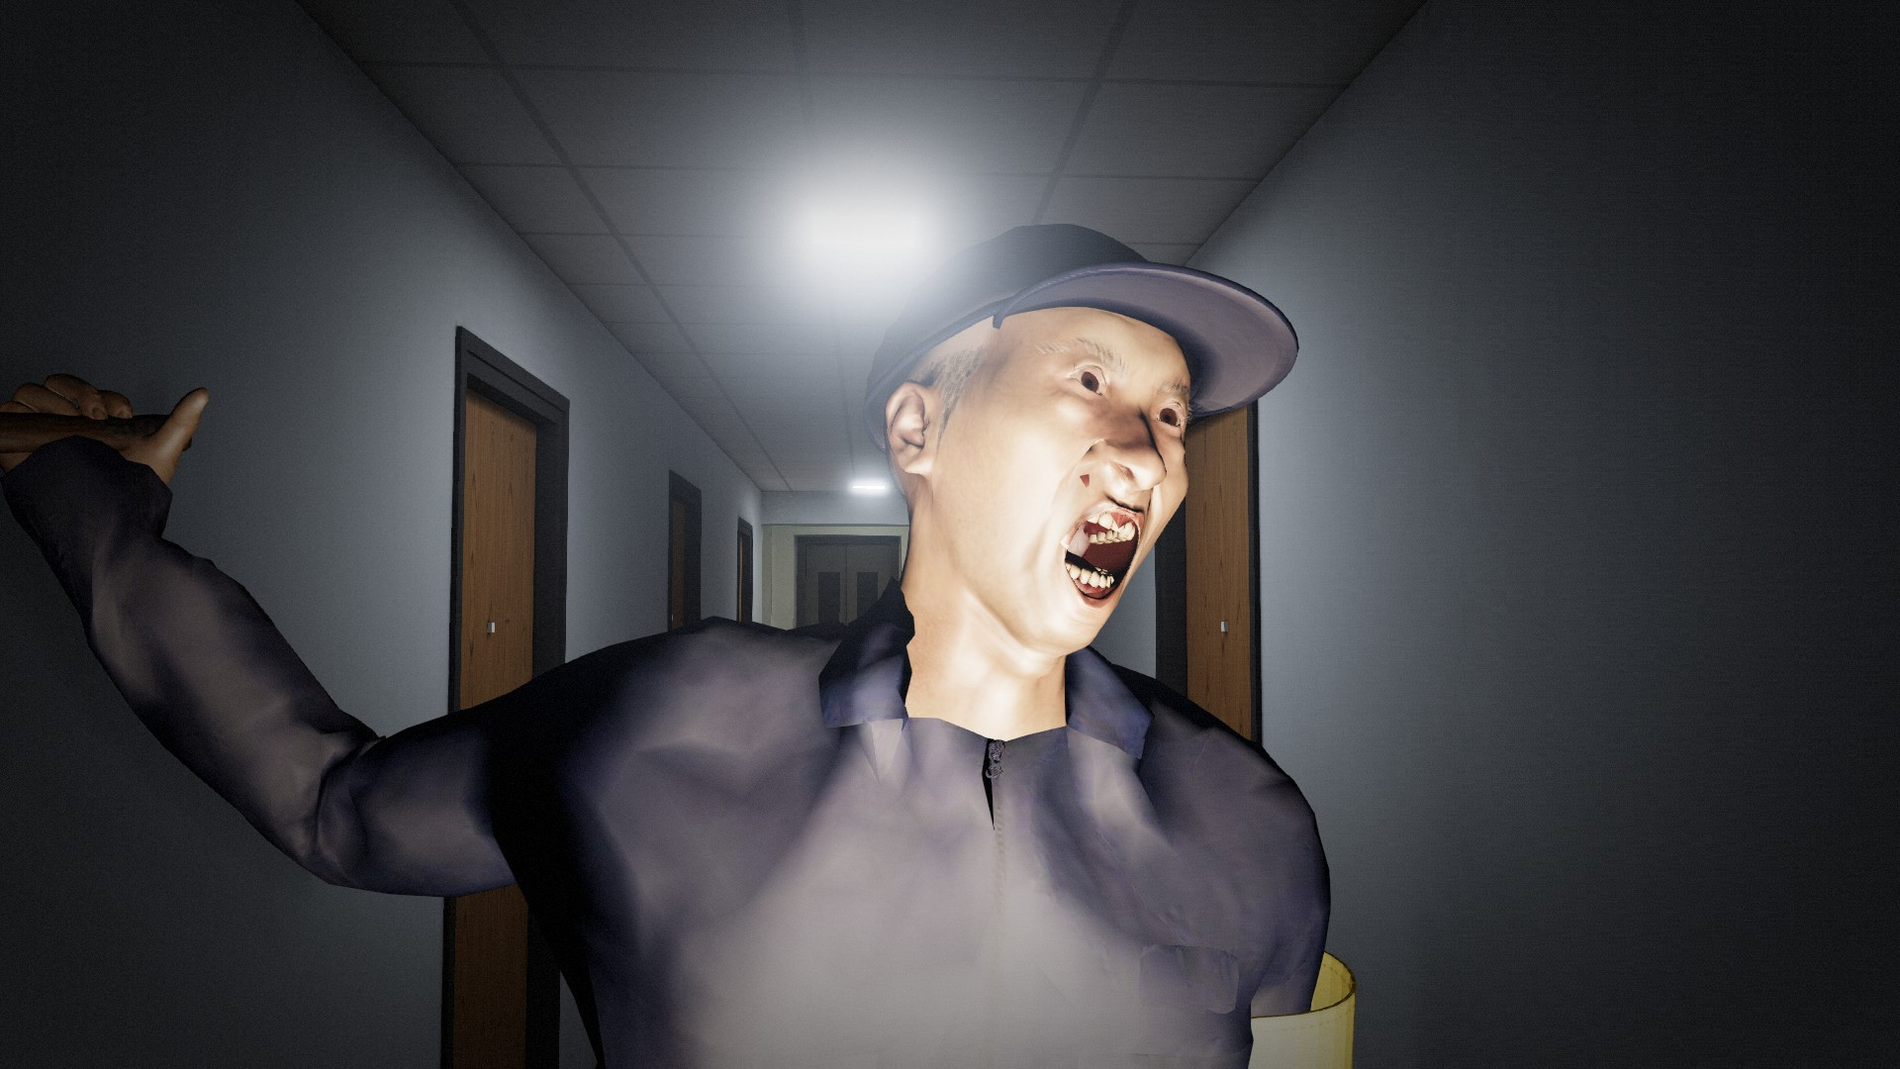
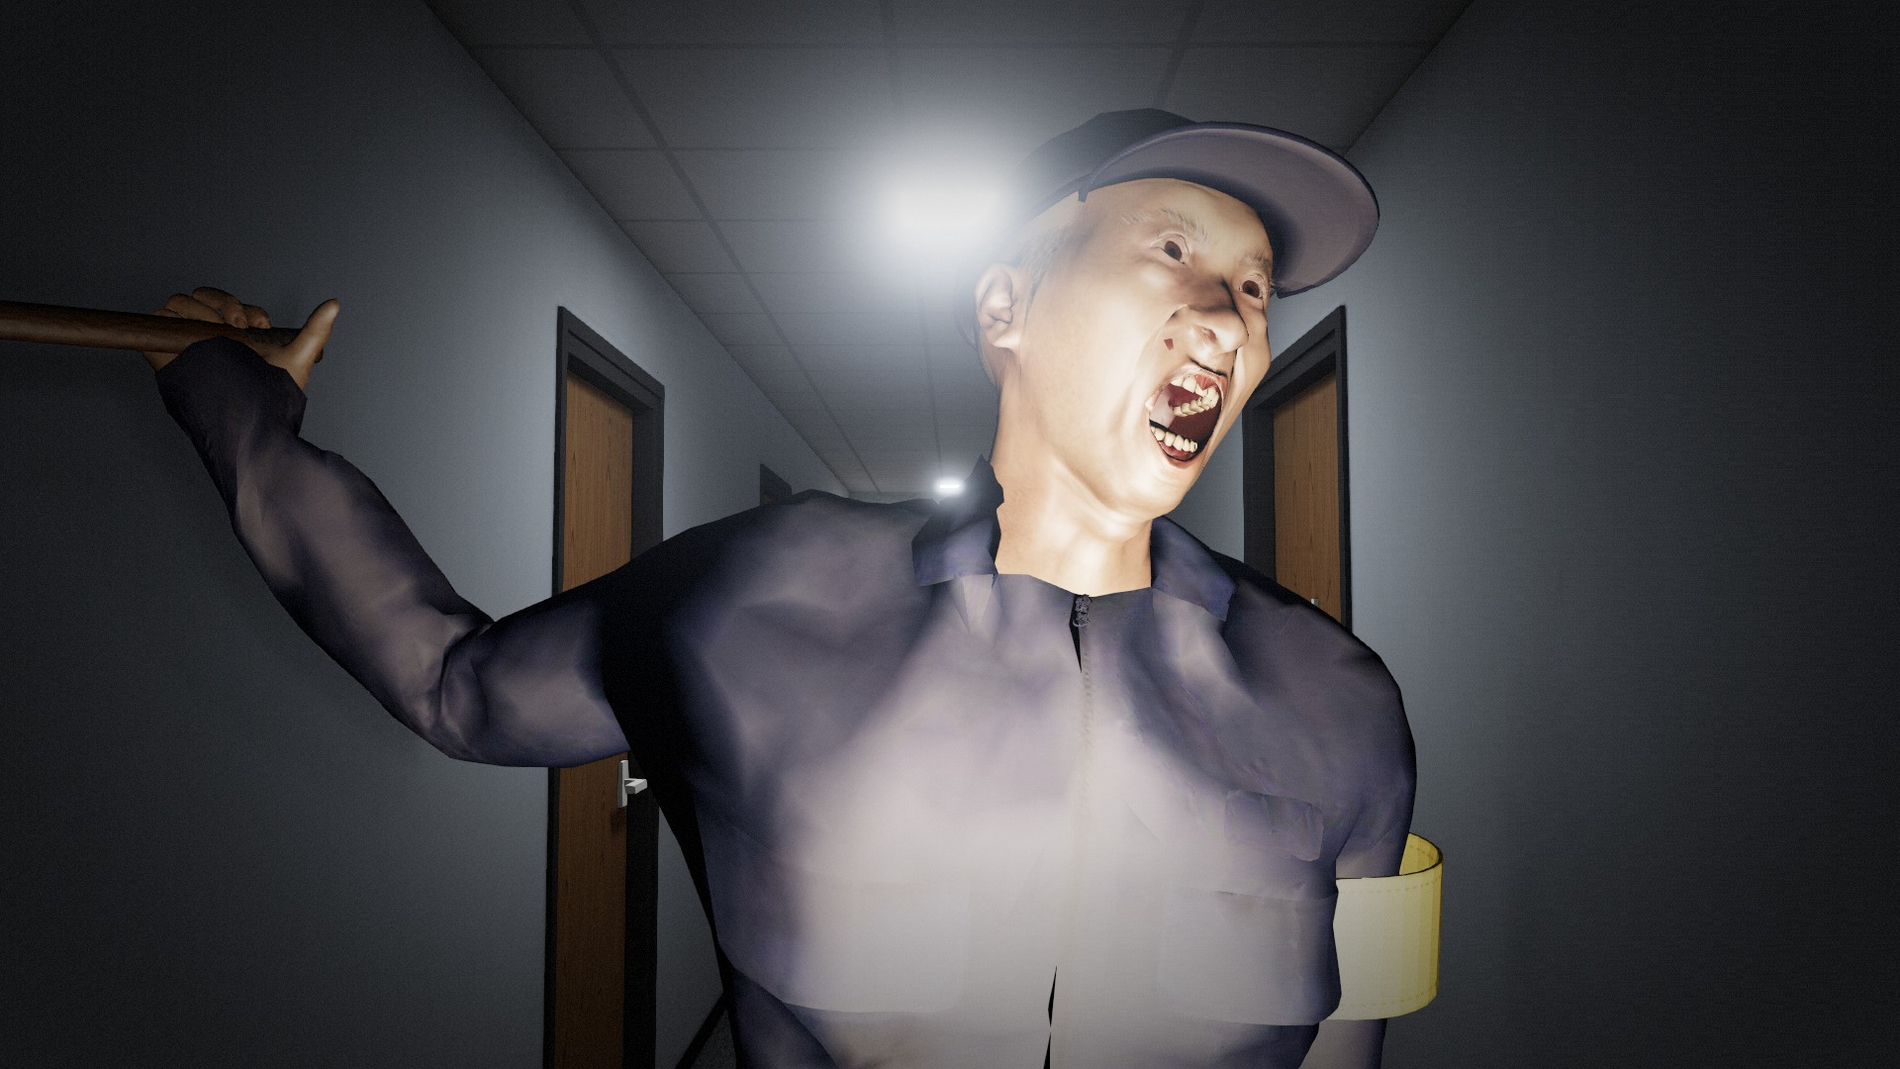
P2c: 血飛沫の写実化とムービー構図
- 画面の血: 輪郭線なし・暗い深紅の柔らかい不規則な斑点(冪分布170)＋微粒＋細く垂れる筋、背景を沈めて合成
- 3D 血煙: 霧状スプライト・通常合成・0.3 秒
- カメラは顔を 0.15s 平滑で追い、振り下ろしで視点が沈み見上げたまま血が飛ぶ
- 血テクスチャが ShaderPass の複製で更新されない不具合を修正、消灯時レンズを非表示
- attack_movie_1/2 更新、attack_movie_3(垂れた血)追加

diff --git a/src/attack_movie.js b/src/attack_movie.js
@@ -15,10 +15,11 @@ export const MOVIE = {
   pushIn: 0.25,        // 寄る距離(m)
   lower: 0.12,         // カメラを下げる量(見上げる構図)
   faceFill: 1.4,       // 顔の補助光の強さ
-  spatter: 34,         // 画面の飛沫の数(20〜40)
-  drips: 8,            // レンズを伝う滴の数
-  mist: 70,            // 3D 血煙の粒の数
-  bloodW: 960, bloodH: 540,
+  fallFrom: 0.55, fallTo: 0.85, fallDrop: 0.45,   // ヒット直前から視点が沈む(下から見上げる)
+  spatter: 170,        // 画面の飛沫の数(大小。大きいものほど少ない)
+  drips: 9,            // 下へ垂れる筋の数
+  mist: 26,            // 3D 血煙(霧状スプライト)の数
+  bloodW: 1280, bloodH: 720,
 };
 
 export class AttackMovie {
@@ -74,11 +75,17 @@ export class AttackMovie {
     const cam = this.camera;
     const k = smooth(Math.min(1, this.t / MOVIE.zoomTime));
     const target = this._faceTarget(new THREE.Vector3());
-    this._look.lerp(target, 1 - Math.exp(-dt * 30));   // 顔を画面の中央に保つ(振りかぶりで頭が動く)
+    // ヒット後も顔を追い続ける(急な振りは時定数 0.15s で平滑化)。注視点を顔の少し下に置き、顔を中央〜やや上に保つ
+    target.y -= 0.06;
+    this._look.lerp(target, 1 - Math.exp(-dt / 0.15));
     const toFace = target.clone().sub(this.eye); toFace.y = 0;
     const d = toFace.length(); if (d > 1e-4) toFace.divideScalar(d);
     cam.position.copy(this.eye).addScaledVector(toFace, Math.min(MOVIE.pushIn, Math.max(0, d - 0.75)) * k);
     cam.position.y -= MOVIE.lower * k;
+    // 振り下ろしに合わせて崩れ落ちる(0.55→0.85 秒で 0.45m 沈む)。前かがみで覗き込む顔を下から見上げ続けるため
+    const fall = smooth(Math.min(1, Math.max(0, (this.t - MOVIE.fallFrom) / (MOVIE.fallTo - MOVIE.fallFrom))));
+    cam.position.y -= MOVIE.fallDrop * fall;
+    cam.position.addScaledVector(toFace, -0.12 * fall);
     cam.fov = MOVIE.fovFrom + (MOVIE.fovTo - MOVIE.fovFrom) * k;
     cam.updateProjectionMatrix();
     cam.up.set(0, 1, 0);
@@ -87,12 +94,11 @@ export class AttackMovie {
     if (this.hitT >= 0) {
       const th = this.t - this.hitT;
       const sink = 1 - Math.exp(-th * 7);
-      cam.position.y -= 0.28 * sink;
+      cam.position.y -= 0.12 * sink;
       const shake = Math.exp(-th * 9) * 0.03;
       cam.position.x += (Math.random() - 0.5) * shake;
       cam.position.z += (Math.random() - 0.5) * shake;
-      cam.rotateZ(0.32 * sink);
-      cam.rotateX(-0.12 * sink);
+      cam.rotateZ(0.22 * sink);
     }
     cam.updateMatrixWorld();
     this.player.flashlight.visible = this.player.flashlightOn;
@@ -115,7 +121,10 @@ export class AttackMovie {
 
 function smooth(x) { return x * x * (3 - 2 * x); }
 
-// ------------------------------------------------------------ 画面の血(飛沫＋垂れる滴)
+// ------------------------------------------------------------ 画面の血(レンズに付いた飛沫＋垂れる筋)
+// 写実寄せ(P2c 監査): 輪郭線・艶の白点なし。暗い深紅(#5a0a0a〜#8a1010)の半透明で縁の柔らかい不規則な斑点を
+// 大小数十〜百個(大きいものほど少なく)、一部は飛んできた向きに細い尾を引く。着弾後、一部から下へ細い筋が垂れる。
+// 合成は最終段の ShaderPass(膜の厚みの勾配でわずかに屈折させ、縁だけ少し暗くする)
 class BloodOverlay {
   constructor(w, h) {
     this.w = w; this.h = h;
@@ -125,139 +134,171 @@ class BloodOverlay {
     this.tex = new THREE.CanvasTexture(this.canvas);
     this.tex.minFilter = THREE.LinearFilter;
     this.tex.generateMipmaps = false;
-    this.drops = [];
+    this.pending = [];   // 着弾待ちの飛沫(数十 ms ばらつかせて付く)
     this.drips = [];
     this.rand = mulberry(7);
     this.pass = new ShaderPass({
-      uniforms: { tDiffuse: { value: null }, tBlood: { value: this.tex }, amount: { value: 1 } },
+      uniforms: { tDiffuse: { value: null }, tBlood: { value: this.tex }, texel: { value: new THREE.Vector2(1 / w, 1 / h) } },
       vertexShader: 'varying vec2 vUv; void main(){ vUv = uv; gl_Position = projectionMatrix * modelViewMatrix * vec4(position, 1.0); }',
       fragmentShader: `
-        uniform sampler2D tDiffuse; uniform sampler2D tBlood; uniform float amount; varying vec2 vUv;
+        uniform sampler2D tDiffuse; uniform sampler2D tBlood; uniform vec2 texel; varying vec2 vUv;
         void main(){
           vec4 b = texture2D(tBlood, vUv);
-          // 血の膜越しに少し歪む(レンズに付いた液体)
-          vec2 off = (b.a > 0.01) ? vec2(dFdx(b.a), dFdy(b.a)) * 6.0 : vec2(0.0);
-          vec4 c = texture2D(tDiffuse, vUv + off);
-          float a = b.a * amount;
-          vec3 col = mix(c.rgb, b.rgb, a);
-          // 膜の縁にわずかなハイライト
-          col += vec3(0.25, 0.08, 0.06) * clamp(length(off) * 30.0, 0.0, 1.0) * a;
+          // 膜の厚み(アルファ)の勾配 → 屈折。滴の縁で背景が少しずれて見える
+          // 4 テクセル離れた差分(細かい点では勾配がほぼ出ない=大きな滴の縁だけ屈折する)
+          float ax = texture2D(tBlood, vUv + vec2(texel.x * 4.0, 0.0)).a - texture2D(tBlood, vUv - vec2(texel.x * 4.0, 0.0)).a;
+          float ay = texture2D(tBlood, vUv + vec2(0.0, texel.y * 4.0)).a - texture2D(tBlood, vUv - vec2(0.0, texel.y * 4.0)).a;
+          vec2 g = vec2(ax, ay) * smoothstep(0.2, 0.6, b.a);
+          vec4 c = texture2D(tDiffuse, vUv - g * 0.006);
+          float a = b.a;
+          // 血は光を吸う: 背景を暗く沈めてから深紅を乗せる(乗算寄り)
+          vec3 under = c.rgb * mix(1.0, 0.25, a);
+          vec3 blood = b.rgb * (0.45 + 0.4 * c.rgb);
+          blood = mix(blood, vec3(dot(blood, vec3(0.299, 0.587, 0.114))), 0.18);   // 彩度を少し落とす
+          vec3 col = mix(under, blood, a * 0.9);
+          col += vec3(0.05, 0.02, 0.02) * clamp(length(g) * 2.0, 0.0, 1.0) * c.rgb;   // 大きな滴の縁にごく弱い明るみ(屈折で背景光が寄る)
           gl_FragColor = vec4(col, 1.0);
         }`,
     });
+    // ShaderPass は uniforms を複製する(テクスチャも複製され needsUpdate が届かない)→ 元のテクスチャを差し直す
+    this.pass.uniforms.tBlood.value = this.tex;
     this.pass.enabled = false;
   }
 
   clear() {
     this.g.clearRect(0, 0, this.w, this.h);
-    this.drops.length = 0;
+    this.pending.length = 0;
     this.drips.length = 0;
     this.tex.needsUpdate = true;
     this.pass.enabled = false;
   }
 
+  _rgb() {   // #5a0a0a〜#8a1010 の範囲で揺らす(暗く・彩度低め。乾きかけの部分ほど黒い)
+    const R = this.rand, k = R();
+    return [78 + k * 52 | 0, 8 + R() * 7 | 0, 8 + R() * 6 | 0];
+  }
+
+  // 縁の柔らかい楕円(中心ほど濃い)
+  _soft(x, y, rx, ry, rot, alpha, rgb) {
+    const g = this.g;
+    g.save();
+    g.translate(x, y); g.rotate(rot); g.scale(1, ry / rx);
+    const gr = g.createRadialGradient(0, 0, 0, 0, 0, rx);
+    const [r, gg, b] = rgb;
+    gr.addColorStop(0, `rgba(${r * 0.8 | 0},${gg},${b},${alpha})`);
+    gr.addColorStop(0.55, `rgba(${r},${gg},${b},${alpha * 0.8})`);
+    gr.addColorStop(0.85, `rgba(${r},${gg},${b},${alpha * 0.35})`);
+    gr.addColorStop(1, `rgba(${r},${gg},${b},0)`);
+    g.fillStyle = gr;
+    g.beginPath(); g.arc(0, 0, rx, 0, Math.PI * 2); g.fill();
+    g.restore();
+  }
+
+  // 1 粒の飛沫: 本体(いびつ)＋飛んできた向きの尾＋周りの霧状の微粒
+  _drop(x, y, r, ang, elong) {
+    const R = this.rand, rgb = this._rgb();
+    const a = 0.55 + R() * 0.35;
+    const n = r > 4 ? 4 + (R() * 4 | 0) : r > 2 ? 2 : 1;
+    for (let k = 0; k < n; k++) {
+      // 大きな滴ほど不規則: 中心からずらした大小の楕円を重ね、縁を波打たせる
+      const ox = (R() - 0.5) * r * (k === 0 ? 0.2 : 1.1), oy = (R() - 0.5) * r * (k === 0 ? 0.2 : 1.1);
+      const sc = k === 0 ? 1 : 0.3 + R() * 0.45;
+      this._soft(x + ox, y + oy, r * sc * (0.75 + R() * 0.4), r * sc * (0.5 + R() * 0.4) / (1 + elong * 0.3), ang + (R() - 0.5) * 1.2, a * (k === 0 ? 1 : 0.75), rgb);
+    }
+    // 尾: 進行方向へ細く伸び、先ほど細く薄い
+    if (elong > 0.4) {
+      // 尾: 本体から細く短く、すぐ途切れる(点線状に崩れる)
+      const L = r * (1.5 + elong * 2.2), steps = Math.max(3, L / 1.5 | 0);
+      for (let i = 1; i <= steps; i++) {
+        const t = i / steps;
+        if (t > 0.5 && R() < 0.4) continue;
+        const rr = Math.max(0.4, r * 0.28 * (1 - t) ** 1.6);
+        this._soft(x + Math.cos(ang) * L * t, y + Math.sin(ang) * L * t, rr * 1.3, rr, ang, a * 0.7 * (1 - t), rgb);
+      }
+    }
+    // 衛星の微粒
+    for (let k = 0; k < (r > 4 ? 2 + (R() * 6 | 0) : 0); k++) {
+      const aa = ang + (R() - 0.5) * 1.4, d = r * (1.4 + R() * 3);
+      this._soft(x + Math.cos(aa) * d, y + Math.sin(aa) * d, 0.6 + R() * r * 0.15, 0.6 + R() * r * 0.12, aa, a * 0.8, rgb);
+    }
+    if (r > 5 && this.drips.length < MOVIE.drips && R() < 0.55) {
+      this.drips.push({ x, y: y + r * 0.4, y0: y, w: Math.max(1.2, r * (0.18 + R() * 0.12)), v: 60 + R() * 90, len: 40 + R() * 200, t: 0, a, rgb, wob: R() * 6 });
+    }
+  }
+
   splash() {
     const R = this.rand, W = this.w, H = this.h;
     this.pass.enabled = true;
-    // 衝撃点は画面の中央上寄り(振り下ろされたハンマー)
-    const cx = W * (0.45 + R() * 0.1), cy = H * (0.38 + R() * 0.08);
-    for (let i = 0; i < MOVIE.spatter; i++) {
-      const a = R() * Math.PI * 2;
-      const sp = 250 + R() * 900;
-      this.drops.push({ x: cx + (R() - 0.5) * 80, y: cy + (R() - 0.5) * 50, vx: Math.cos(a) * sp, vy: Math.sin(a) * sp * 0.7 - 120,
-        r: 2.5 + R() ** 2 * 12, land: 0.02 + R() * 0.09, t: 0 });
+    const cx = W * (0.42 + R() * 0.16), cy = H * (0.36 + R() * 0.12);
+    const s = W / 960;   // 解像度に比例
+    const N = MOVIE.spatter;
+    // 衝撃点のまわりの薄い血の膜(画面全体が一瞬赤黒く濁る部分)
+    this._soft(cx, cy, W * 0.22, H * 0.2, 0, 0.16, [70, 6, 6]);
+    // 霧吹き状の微粒: 数百の極小点を衝撃点の周りに正規分布で
+    for (let i = 0; i < 420; i++) {
+      const u1 = R() || 1e-6, u2 = R();
+      const gr = Math.sqrt(-2 * Math.log(u1));
+      const x = cx + gr * Math.cos(2 * Math.PI * u2) * W * 0.16, y = cy + gr * Math.sin(2 * Math.PI * u2) * H * 0.18;
+      const rr = (0.35 + R() ** 3 * 1.6) * s;
+      this._soft(x, y, rr, rr * (0.7 + R() * 0.3), R() * 3, 0.35 + R() * 0.45, this._rgb());
     }
-    // 大きな塊を中央付近に数個
-    for (let i = 0; i < 4; i++) this._blot(cx + (R() - 0.5) * W * 0.35, cy + (R() - 0.5) * H * 0.3, 14 + R() * 22, true);
-    this.tex.needsUpdate = true;
-  }
-
-  _color(alpha) {
-    const R = this.rand;
-    const r = 95 + (R() * 50) | 0, g = (R() * 8) | 0, b = (R() * 10) | 0;
-    return `rgba(${r},${g},${b},${alpha})`;
-  }
-
-  _blot(x, y, r, maybeDrip) {
-    const g = this.g, R = this.rand;
-    g.save();
-    g.shadowColor = 'rgba(50,0,0,0.6)'; g.shadowBlur = 3;
-    // 塊: 少しずつずらした楕円を重ねていびつにし、縁を濃く・中心をわずかに明るく(液体の厚み)
-    for (let k = 0; k < 3 + (R() * 3 | 0); k++) {
-      const ox = (R() - 0.5) * r * 0.8, oy = (R() - 0.5) * r * 0.8, rr = r * (0.55 + R() * 0.5);
-      const gr = g.createRadialGradient(x + ox - rr * 0.2, y + oy - rr * 0.2, 0, x + ox, y + oy, rr);
-      gr.addColorStop(0, 'rgba(138,8,6,0.82)'); gr.addColorStop(0.75, 'rgba(96,0,0,0.9)'); gr.addColorStop(1, 'rgba(60,0,0,0.95)');
-      g.fillStyle = gr;
-      g.beginPath(); g.ellipse(x + ox, y + oy, rr, rr * (0.7 + R() * 0.5), R() * Math.PI, 0, Math.PI * 2); g.fill();
+    for (let i = 0; i < N; i++) {
+      // 大きさは冪分布: ほとんどが小さく、大きいものはわずか
+      const u = R();
+      const r = (0.7 + 15 * u ** 5) * s;
+      const ang = R() * Math.PI * 2;
+      const dist = (20 + R() ** 0.7 * W * 0.42) * (1 - u * 0.5);
+      const x = cx + Math.cos(ang) * dist, y = cy + Math.sin(ang) * dist * 0.75;
+      this.pending.push({ at: R() ** 2 * 0.1, x, y, r, ang, elong: R() < 0.25 ? 0.4 + R() * 1.1 : 0 });
     }
-    // 周りの細かい点
-    g.fillStyle = this._color(0.85);
-    for (let k = 0; k < 3 + (R() * 6 | 0); k++) {
-      const a = R() * Math.PI * 2, d = r * (1.1 + R() * 1.6);
-      g.beginPath(); g.arc(x + Math.cos(a) * d, y + Math.sin(a) * d, 0.8 + R() * r * 0.18, 0, Math.PI * 2); g.fill();
-    }
-    // 濡れた照り
-    if (r > 5) { g.shadowBlur = 0; g.fillStyle = 'rgba(255,170,160,0.28)'; g.beginPath(); g.ellipse(x - r * 0.3, y - r * 0.35, r * 0.22, r * 0.12, -0.6, 0, Math.PI * 2); g.fill(); }
-    g.restore();
-    if (maybeDrip && this.drips.length < MOVIE.drips && r > 5) {
-      this.drips.push({ x, y: y + r * 0.6, y0: y, w: Math.max(2.5, r * 0.45), v: 120 + R() * 140, len: 90 + R() * 260, t: 0, wob: R() * 6 });
-    }
+    this.pendT = 0;
   }
 
   update(dt) {
     if (!this.pass.enabled) return;
-    const g = this.g;
     let dirty = false;
-    for (const d of this.drops) {
-      if (d.done) continue;
-      const x0 = d.x, y0 = d.y;
-      d.t += dt;
-      d.vy += 1600 * dt;
-      d.x += d.vx * dt; d.y += d.vy * dt;
-      g.strokeStyle = this._color(0.55);
-      g.lineWidth = Math.max(1.5, d.r * 0.9);
-      g.lineCap = 'round';
-      g.beginPath(); g.moveTo(x0, y0); g.lineTo(d.x, d.y); g.stroke();
-      if (d.t >= d.land) { d.done = true; this._blot(d.x, d.y, d.r, true); }
-      dirty = true;
+    this.pendT = (this.pendT || 0) + dt;
+    for (let i = this.pending.length - 1; i >= 0; i--) {
+      const d = this.pending[i];
+      if (d.at <= this.pendT) { this._drop(d.x, d.y, d.r, d.ang, d.elong); this.pending.splice(i, 1); dirty = true; }
     }
+    const g = this.g;
     for (const d of this.drips) {
-      if (d.t > 1.0) continue;
+      if (d.t > 1.4) continue;
       d.t += dt;
-      const yPrev = d.y;
-      d.v *= Math.exp(-dt * 1.6);
-      d.y = Math.min(d.y0 + d.len, d.y + d.v * dt);
-      const x = d.x + Math.sin(d.y * 0.05 + d.wob) * 1.5;
-      g.strokeStyle = this._color(0.85);
-      g.lineWidth = d.w * (1 - Math.min(0.5, d.t * 0.3));
-      g.lineCap = 'round';
-      g.beginPath(); g.moveTo(x, yPrev); g.lineTo(x, d.y); g.stroke();
-      g.fillStyle = this._color(0.9);
-      g.beginPath(); g.arc(x, d.y, d.w * 0.75, 0, Math.PI * 2); g.fill();
+      d.v *= Math.exp(-dt * 1.2);
+      const y1 = Math.min(d.y0 + d.len, d.y + d.v * dt);
+      // 細い筋: 柔らかい小粒を詰めて描く(線の輪郭を出さない)
+      for (let y = d.y; y < y1; y += 1) {
+        const x = d.x + Math.sin(y * 0.04 + d.wob) * 1.2;
+        this._soft(x, y, d.w, d.w, 0, d.a * 0.35, d.rgb);
+      }
+      d.y = y1;
       dirty = true;
     }
+    void g;
     if (dirty) this.tex.needsUpdate = true;
   }
 }
 
-// ------------------------------------------------------------ 3D の血煙
+// ------------------------------------------------------------ 3D の血煙(霧状のスプライト・通常合成・0.3 秒で広がって消える)
 class BloodMist {
   constructor(scene, n) {
     this.n = n;
     const geo = new THREE.BufferGeometry();
     this.pos = new Float32Array(n * 3);
     this.vel = new Float32Array(n * 3);
-    this.life = new Float32Array(n);
     geo.setAttribute('position', new THREE.BufferAttribute(this.pos, 3));
     const sprite = (() => {
       const c = document.createElement('canvas'); c.width = c.height = 64;
       const g = c.getContext('2d');
       const gr = g.createRadialGradient(32, 32, 0, 32, 32, 32);
-      gr.addColorStop(0, 'rgba(255,255,255,1)'); gr.addColorStop(0.5, 'rgba(255,255,255,0.6)'); gr.addColorStop(1, 'rgba(255,255,255,0)');
+      gr.addColorStop(0, 'rgba(255,255,255,0.9)'); gr.addColorStop(0.4, 'rgba(255,255,255,0.45)'); gr.addColorStop(1, 'rgba(255,255,255,0)');
       g.fillStyle = gr; g.fillRect(0, 0, 64, 64);
       return new THREE.CanvasTexture(c);
     })();
-    this.mat = new THREE.PointsMaterial({ color: 0x4a0202, size: 0.07, map: sprite, transparent: true, opacity: 0, depthWrite: false, sizeAttenuation: true });
+    this.mat = new THREE.PointsMaterial({ color: 0x3e0606, size: 0.1, map: sprite, transparent: true, opacity: 0, depthWrite: false,
+      sizeAttenuation: true, blending: THREE.NormalBlending, fog: false });
     this.points = new THREE.Points(geo, this.mat);
     this.points.frustumCulled = false;
     this.points.visible = false;
@@ -269,14 +310,13 @@ class BloodMist {
   burst(center, fwd) {
     const R = this.rand;
     for (let i = 0; i < this.n; i++) {
-      this.pos[i * 3] = center.x + (R() - 0.5) * 0.25;
-      this.pos[i * 3 + 1] = center.y + (R() - 0.5) * 0.2;
-      this.pos[i * 3 + 2] = center.z + (R() - 0.5) * 0.25;
-      const sp = 0.8 + R() * 2.6;
-      const dx = (R() - 0.5) * 2 + fwd.x * 0.6, dy = R() * 1.2 + 0.2, dz = (R() - 0.5) * 2 + fwd.z * 0.6;
-      const L = Math.hypot(dx, dy, dz);
+      this.pos[i * 3] = center.x + (R() - 0.5) * 0.15;
+      this.pos[i * 3 + 1] = center.y + (R() - 0.5) * 0.12;
+      this.pos[i * 3 + 2] = center.z + (R() - 0.5) * 0.15;
+      const sp = 0.4 + R() * 1.4;
+      const dx = (R() - 0.5) * 2 + fwd.x * 0.4, dy = (R() - 0.3) * 1.2, dz = (R() - 0.5) * 2 + fwd.z * 0.4;
+      const L = Math.hypot(dx, dy, dz) || 1;
       this.vel[i * 3] = dx / L * sp; this.vel[i * 3 + 1] = dy / L * sp; this.vel[i * 3 + 2] = dz / L * sp;
-      this.life[i] = 0.5 + R() * 0.5;
     }
     this.t = 0;
     this.points.visible = true;
@@ -285,18 +325,16 @@ class BloodMist {
   update(dt) {
     if (!this.points.visible) return;
     this.t += dt;
+    const drag = Math.exp(-dt * 4);
     for (let i = 0; i < this.n; i++) {
-      this.vel[i * 3 + 1] -= 6.0 * dt;
-      const drag = Math.exp(-dt * 2.5);
-      this.vel[i * 3] *= drag; this.vel[i * 3 + 2] *= drag;
-      this.pos[i * 3] += this.vel[i * 3] * dt;
-      this.pos[i * 3 + 1] += this.vel[i * 3 + 1] * dt;
-      this.pos[i * 3 + 2] += this.vel[i * 3 + 2] * dt;
+      this.vel[i * 3 + 1] -= 1.5 * dt;
+      for (let k = 0; k < 3; k++) { this.vel[i * 3 + k] *= drag; this.pos[i * 3 + k] += this.vel[i * 3 + k] * dt; }
     }
     this.points.geometry.attributes.position.needsUpdate = true;
-    this.mat.opacity = Math.max(0, 0.85 * (1 - this.t / 0.9));
-    this.mat.size = 0.05 + this.t * 0.12;     // 霧のように広がる
-    if (this.t > 0.95) this.points.visible = false;
+    const k = Math.min(1, this.t / 0.3);
+    this.mat.size = 0.1 + 0.3 * k;                 // 0.3 秒で霧のように広がる
+    this.mat.opacity = 0.55 * (1 - k) ** 1.5;      // 同時に薄れて消える
+    if (this.t > 0.32) this.points.visible = false;
   }
   reset() { this.points.visible = false; this.t = 0; }
 }

diff --git a/src/enemy.js b/src/enemy.js
@@ -193,6 +193,7 @@ export class Enemy {
     this.flashlight.on = !!on;
     this.flashlight.light.visible = this.flashlight.beam.visible = !!on;
     this.flashlight.lens.material.color.setScalar(on ? 6 : 0.02);
+    this.flashlight.lens.visible = !!on;   // 消灯時はレンズ面を出さない(暗所で白い円盤に見えたため)
   }
 
   // ------------------------------------------------------------ pose / anim

diff --git a/docs/p2c/NOTES.md b/docs/p2c/NOTES.md
@@ -37,3 +37,9 @@
 |---|---|
 | `scream` | `enemy_scream_attack_01.ogg` |
 | `hit` | `enemy_hit_hammer_01.ogg` |
+
+## 6. 血飛沫の写実化とムービー構図（監査差し戻し対応）
+- 画面の血：輪郭線・艶の白点を廃止。暗い深紅（#5a0a0a〜#8a1010 相当、彩度 -18%）の縁の柔らかい半透明の斑点を冪分布で 170 個（大きいものほど少ない）＋衝撃点周りの霧吹き状の微粒 420 個＋薄い血の膜。大きな滴は楕円の重ね合わせで不規則、25% だけ短い尾（途中で途切れる）。大きめの滴から最大 9 本、細い筋が 1.4 秒かけて下へ垂れる。合成は背景を沈めてから深紅を乗せ、大きな滴の縁だけわずかに屈折
+- 3D 血煙：霧状スプライト 26 枚・通常合成・暗い赤、0.3 秒で広がりながら消える
+- 構図：顔を時定数 0.15 秒で追い続ける。振り下ろしに合わせ 0.55→0.85 秒で視点が 0.45m 沈み（崩れ落ちる）、前かがみの顔を下から見上げたまま血が飛ぶ
+- 不具合修正：ShaderPass が uniforms を複製するため血のテクスチャ更新が届かず無表示になる場合があった→元テクスチャを差し直し。消灯時の懐中電灯レンズが暗所で白い円盤に見えた→消灯時は非表示
